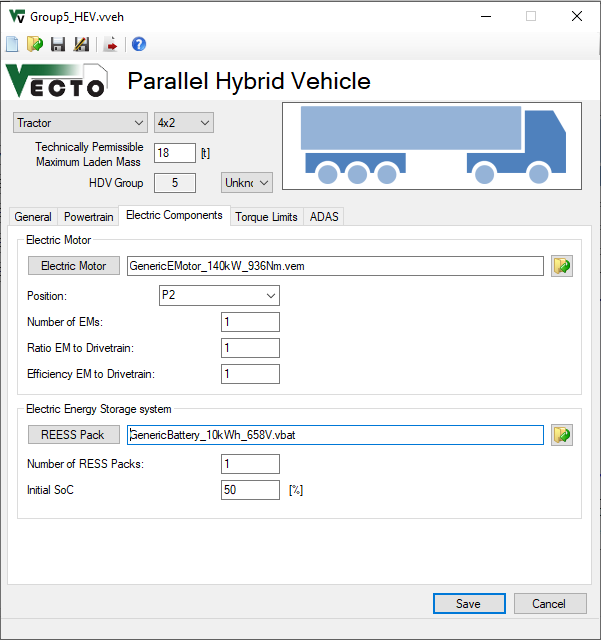
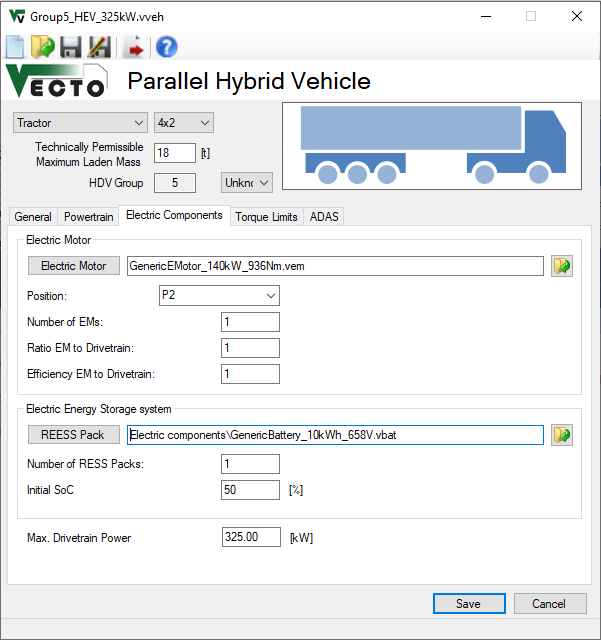
more work on documentation

diff --git a/Documentation/User Manual/3-simulation-models/Electric_Motor.md b/Documentation/User Manual/3-simulation-models/Electric_Motor.md
@@ -1,1 +1,11 @@
 ##Electric Motor
+
+The electric motor is modeled by basically 4 map files:
+ - Maximum drive torque over motor speed
+ - Maximum generation torque over motor speed
+ - Drag curve (i.e., the motor is not energized) over motor speed
+ - Electric power map
+
+The first two curves are read from a single .vemp file (see [Electric Motor Max Torque File (.vemp)](#electric-motor-max-torque-file-.vemp)). The drag curve is provided in a .vemd file (see [Electric Motor Drag Curve File (.vemd)](#electric-motor-drag-curve-file-.vemd)) and the electric power map in a .vemo file (see [Electric Motor Map (.vemo)](#electric-motor-map-.vemo)).
+
+The convention for all input files is that positive torque values drive the vehicle while negative torque values apply additional drag and generate electric power.

diff --git a/Documentation/User Manual/1-user-interface/F_VEH-Editor.md b/Documentation/User Manual/1-user-interface/F_VEH-Editor.md
@@ -147,6 +147,7 @@ The *Efficiency EM to Drivetrain* can be used to consider the efficiency of a tr
 
 For the electric energy storage multiple battery packs can be configured and the initial state of charge can be defined.
 
+The maximum power of a hybrid drivetrain can be limited to a certain power. This limit has to be at least the maximum power of the combustion engine.
 
 ###Torque Limits
 
